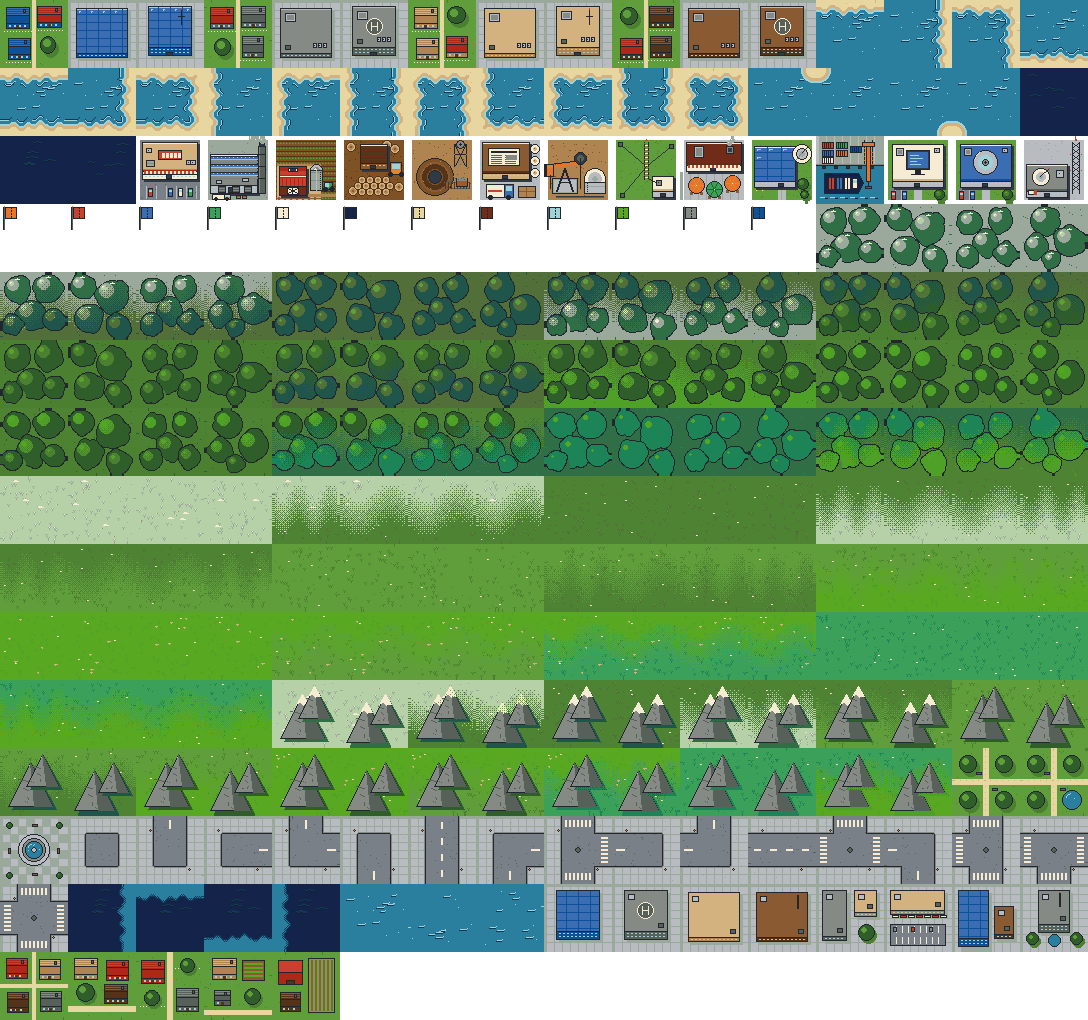
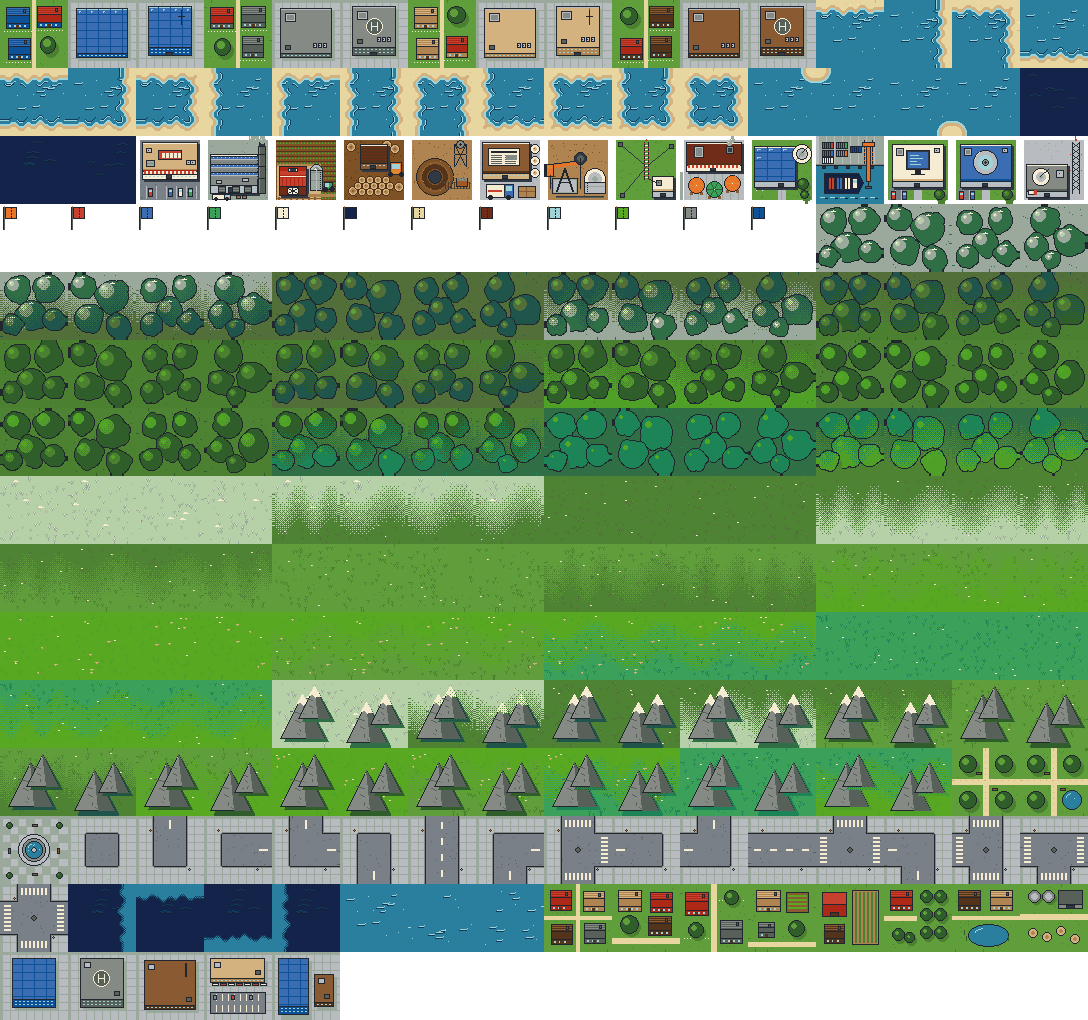
art: swap town set names per Esteban: rural 0x3000-7 (8, ring), urban 0x3008-c (5, core) (#303)

Changed region(s): [[0.5, 0.851, 1.0, 0.9422], [0.0, 0.9118, 0.3125, 1.0]]

diff --git a/art/tools/towntiles.py b/art/tools/towntiles.py
@@ -1,11 +1,11 @@
 """#303: native town tile sets, drawn at 64 px with a 32 px fallback (same palette and style as town64/town).
 
-Native kinds (docs/research/techspec.md "Town spread", gap audit T4):
-- town_rural_0..4  = kinds 0x3008..0x300c ("small town"): the solid core inside the level radius and the
-  1-in-10 corner tiles. Houses with gardens, lanes and small plots, on grass.
-- town_urban_0..7  = kinds 0x3000..0x3007 ("large town"): the ring scattered from level to level + 4.
-  Mid-rise and tower plots on pavement.
-Variant index v = kind - 0x3008 (rural) or kind - 0x3000 (urban). Each tile stands alone (no road
+Native kinds (docs/research/techspec.md "Town spread", gap audit T4; names corrected by Esteban, #311):
+- town_urban_0..4  = kinds 0x3008..0x300c: the solid core inside the level radius and the 1-in-10
+  corner tiles. Towers, mid-rise and shops on pavement.
+- town_rural_0..7  = kinds 0x3000..0x3007: the ring scattered from level to level + 4, so rural always
+  rings urban. Houses, gardens, farms and orchards on grass.
+Variant index v = kind - 0x3008 (urban) or kind - 0x3000 (rural). Each tile stands alone (no road
 autotiling), since native towns scatter single tiles over grass. Frames are appended after the existing
 ones in both terrain atlases, so earlier frames keep their place."""
 
@@ -56,7 +56,7 @@ class Tile:
             s.d.line([(0, i), (s.n - 1, i)], fill=H(C["PAVED"]))
 
 
-# ---------- rural (small town) ----------
+# ---------- rural (0x3000..0x3007, outer ring) ----------
 def house(t, x0, y0, x1, y1, roof, edge):
     """Pitched-roof house seen from above with a short front wall (64 px coords)."""
     big = t.n == 64
@@ -120,7 +120,7 @@ def rural(v):
             house(t, 8, 36, 24, 48, *ROOF[3])
             t.R([0, 56, 63, 60], "SAND")
             tree(t, 38, 34, 16)
-        else:  # farmstead: barn and crop rows
+        elif v == 4:  # farmstead: barn and crop rows
             t.R([4, 6, 28, 30], "RED", "INK")
             t.R([4, 18, 28, 30], "REDD", "INK")
             t.R([12, 26, 20, 30], "BROWND", "INK")
@@ -128,12 +128,40 @@ def rural(v):
             for x in range(37, 59, 4 if t.n == 64 else 6):
                 t.R([x, 6, x + 1, 56], "GRASSD")
             house(t, 6, 38, 26, 54, *ROOF[2])
+        elif v == 5:  # cottage by an orchard
+            house(t, 4, 4, 26, 21, *ROOF[0])
+            t.R([0, 30, 30, 34], "SAND")
+            for yy in (4, 22, 40):
+                for xx in (34, 48):
+                    tree(t, xx, yy, 12)
+            tree(t, 6, 42, 12)
+            tree(t, 18, 46, 10)
+        elif v == 6:  # two houses above a farm pond
+            house(t, 4, 4, 26, 21, *ROOF[2])
+            house(t, 36, 4, 58, 21, *ROOF[1])
+            t.R([0, 30, 63, 33], "SAND")
+            t.E([14, 38, 54, 60], "WATER", "INK")
+            t.d.arc([t.c(20), t.c(42), t.c(40), t.c(54)], 200, 260, fill=H(C["WIN"]))
+            for x, y in ((12, 50), (10, 44), (54, 50)):
+                t.R([x, y, x, y + 4], "TREE")
+        else:  # grain silos, a shed and hay bales by a track
+            t.R([0, 28, 63, 33], "SAND")
+            for x in (6, 20):
+                t.E([x + 2, 6, x + 14, 18], "GRASSD")
+                t.E([x, 4, x + 12, 16], "GREY", "INK")
+                t.E([x + 3, 7, x + 9, 13], "PAVE")
+            t.R([36, 4, 60, 22], "GREYD", "INK")
+            t.R([36, 18, 60, 22], "GREY", "INK")
+            t.R([44, 19, 52, 22], "DARK", "INK")
+            for x, y in ((6, 42), (20, 46), (34, 40), (48, 48)):
+                t.E([x, y, x + 9, y + 9], "TAN", "INK")
+                t.E([x + 3, y + 3, x + 6, y + 6], "TAND")
         return t.im
 
     return make
 
 
-# ---------- urban (large town) ----------
+# ---------- urban (0x3008..0x300c, core) ----------
 def building(t, x0, y0, x1, y1, roof, edge, h, kind="plain"):
     """Flat-roof building: roof rect, thin front edge h px tall (= height), window dots on the edge."""
     big = t.n == 64
@@ -187,42 +215,32 @@ def urban(v):
             building(t, 10, 4, 53, 45, "GLASS", "GLASSD", 8)
         elif v == 1:  # grey tower with helipad
             building(t, 10, 4, 53, 45, "GREY", "GREYD", 8, "heli")
-        elif v == 2:  # tan mid-rise block
-            building(t, 6, 6, 57, 51, "TAN", "TAND", 4)
-        elif v == 3:  # brick mid-rise with a radio mast
+        elif v == 2:  # brick mid-rise with a radio mast
             building(t, 6, 6, 57, 51, "BROWN", "BROWND", 4, "mast")
-        elif v == 4:  # two mid-rises and a courtyard tree
-            building(t, 4, 4, 28, 50, "GREY", "GREYD", 4)
-            building(t, 36, 4, 58, 26, "TAN", "TAND", 4)
-            tree(t, 40, 38, 16)
-        elif v == 5:  # shop row with awnings over a car park
+        elif v == 3:  # shop row with awnings over a car park
             building(t, 4, 4, 58, 24, "TAN", "TAND", 4)
             for x in range(6, 56, 8):
                 t.R([x, 29, x + 6, 31], "RED" if (x // 8) % 2 else "CREAM", "INK")
             parking(t, 4, 38, 59, 59)
-        elif v == 6:  # glass offices and a brick annex
+        else:  # glass offices and a brick annex
             building(t, 4, 4, 34, 52, "GLASS", "GLASSD", 8)
             building(t, 40, 20, 59, 48, "BROWN", "BROWND", 4)
-        else:  # tower block with a plaza and trees
-            building(t, 16, 4, 47, 38, "GREY", "GREYD", 8, "mast")
-            tree(t, 4, 46, 12)
-            tree(t, 48, 46, 12)
-            t.E([26, 48, 38, 60], "WATER", "INK")
         return t.im
 
     return make
 
 
-RURAL = 5
-URBAN = 8
+RURAL = 8
+URBAN = 5
 
 
 def frames(n):
+    """In native kind order: rural 0x3000..0x3007, then urban 0x3008..0x300c."""
     f = {}
-    for v in range(URBAN):
-        f[f"town_urban_{v}"] = urban(v)(n)
     for v in range(RURAL):
         f[f"town_rural_{v}"] = rural(v)(n)
+    for v in range(URBAN):
+        f[f"town_urban_{v}"] = urban(v)(n)
     return f
 
 
@@ -240,7 +258,7 @@ def preview():
     d = ImageDraw.Draw(S)
     d.text(
         (8, 4),
-        "Capitalism++ #303: urban 0x3000-7 (left, ring) and rural 0x3008-c (right, core)",
+        "Capitalism++ #303: rural 0x3000-7 (left, outer ring) and urban 0x3008-c (right, core)",
         fill="white",
         font=f,
     )
@@ -251,7 +269,7 @@ def preview():
         d.text((x, 158), n.replace("town_", ""), fill="white", font=f)
     d.text(
         (8, 176),
-        "Sample spread, level 2: rural core within 2 tiles, urban scattered out to 6",
+        "Sample spread, level 2: urban core within 2 tiles, rural scattered out to 6",
         fill="white",
         font=f,
     )
@@ -263,9 +281,9 @@ def preview():
         for x in range(gx):
             dist = max(abs(x - cx), abs(y - cy))
             if dist < 2:
-                im = fr64[f"town_rural_{r.randrange(RURAL)}"]
-            elif dist < 6 and r.random() < 0.45 - dist * 0.05:
                 im = fr64[f"town_urban_{r.randrange(URBAN)}"]
+            elif dist < 6 and r.random() < 0.45 - dist * 0.05:
+                im = fr64[f"town_rural_{r.randrange(RURAL)}"]
             else:
                 im = grass[g[r.randrange(len(g))]]
             S.alpha_composite(im, (12 + x * 64, 196 + y * 64))

diff --git a/art/README.md b/art/README.md
@@ -127,9 +127,10 @@ Run `python3 towntiles.py` to rebuild `docs/art/m2-town-native-preview.png`.
 
 | Frame | Native kind | Where it appears |
 | --- | --- | --- |
-| `town_urban_0` .. `town_urban_7` | `0x3000` .. `0x3007` (large town), index = kind − `0x3000` | ring, from the level radius out to level + 4 |
-| `town_rural_0` .. `town_rural_4` | `0x3008` .. `0x300c` (small town), index = kind − `0x3008` | solid core inside the level radius, plus the 1-in-10 corner tiles |
+| `town_rural_0` .. `town_rural_7` | `0x3000` .. `0x3007`, index = kind − `0x3000` | outer ring, from the level radius out to level + 4 (rural always rings urban) |
+| `town_urban_0` .. `town_urban_4` | `0x3008` .. `0x300c`, index = kind − `0x3008` | solid core inside the level radius, plus the 1-in-10 corner tiles |
 
-Urban: 0 glass tower, 1 tower with helipad, 2 tan mid-rise, 3 brick mid-rise with mast, 4 two mid-rises and a tree,
-5 shop row over a car park, 6 glass offices and brick annex, 7 tower with plaza.
-Rural: 0 four houses on crossing paths, 1 three houses and a tree, 2 two houses with gardens, 3 house, vegetable plot and shed, 4 farmstead.
+Rural: 0 four houses on crossing paths, 1 three houses and a tree, 2 two houses with gardens, 3 house, vegetable plot and shed,
+4 farmstead, 5 cottage by an orchard, 6 two houses above a pond, 7 grain silos, shed and hay bales.
+Urban: 0 glass tower, 1 tower with helipad, 2 brick mid-rise with mast, 3 shop row over a car park, 4 glass offices and brick annex.
+Frames are in native kind order (rural, then urban). Names follow Esteban's correction in #311.
